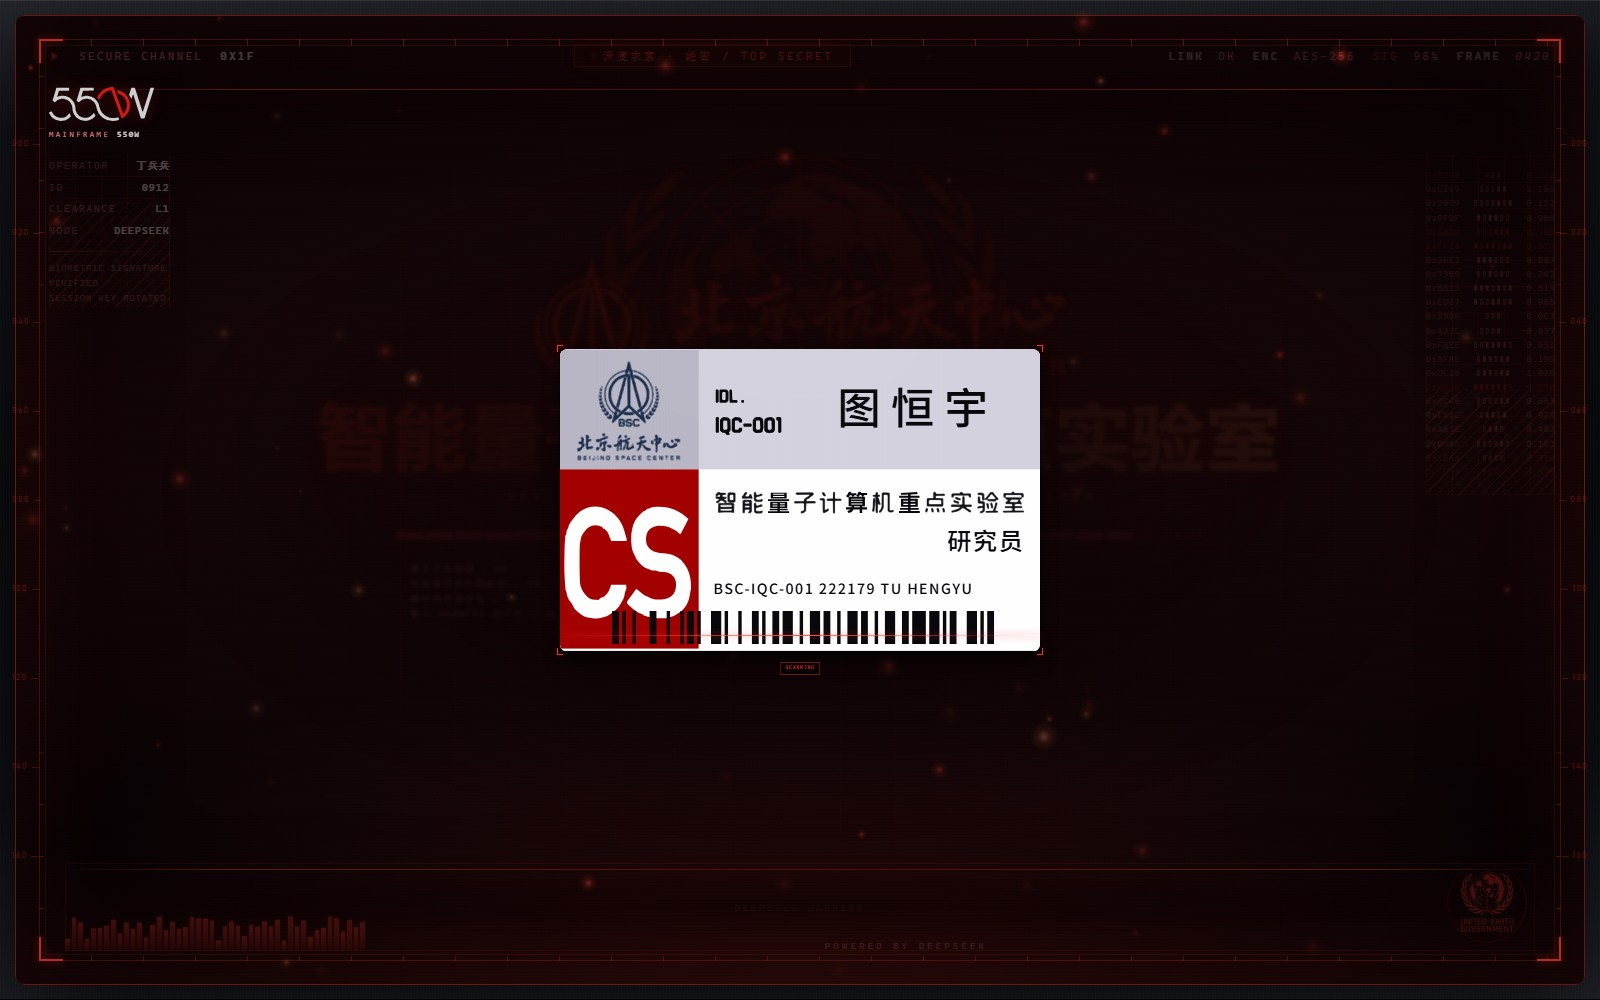
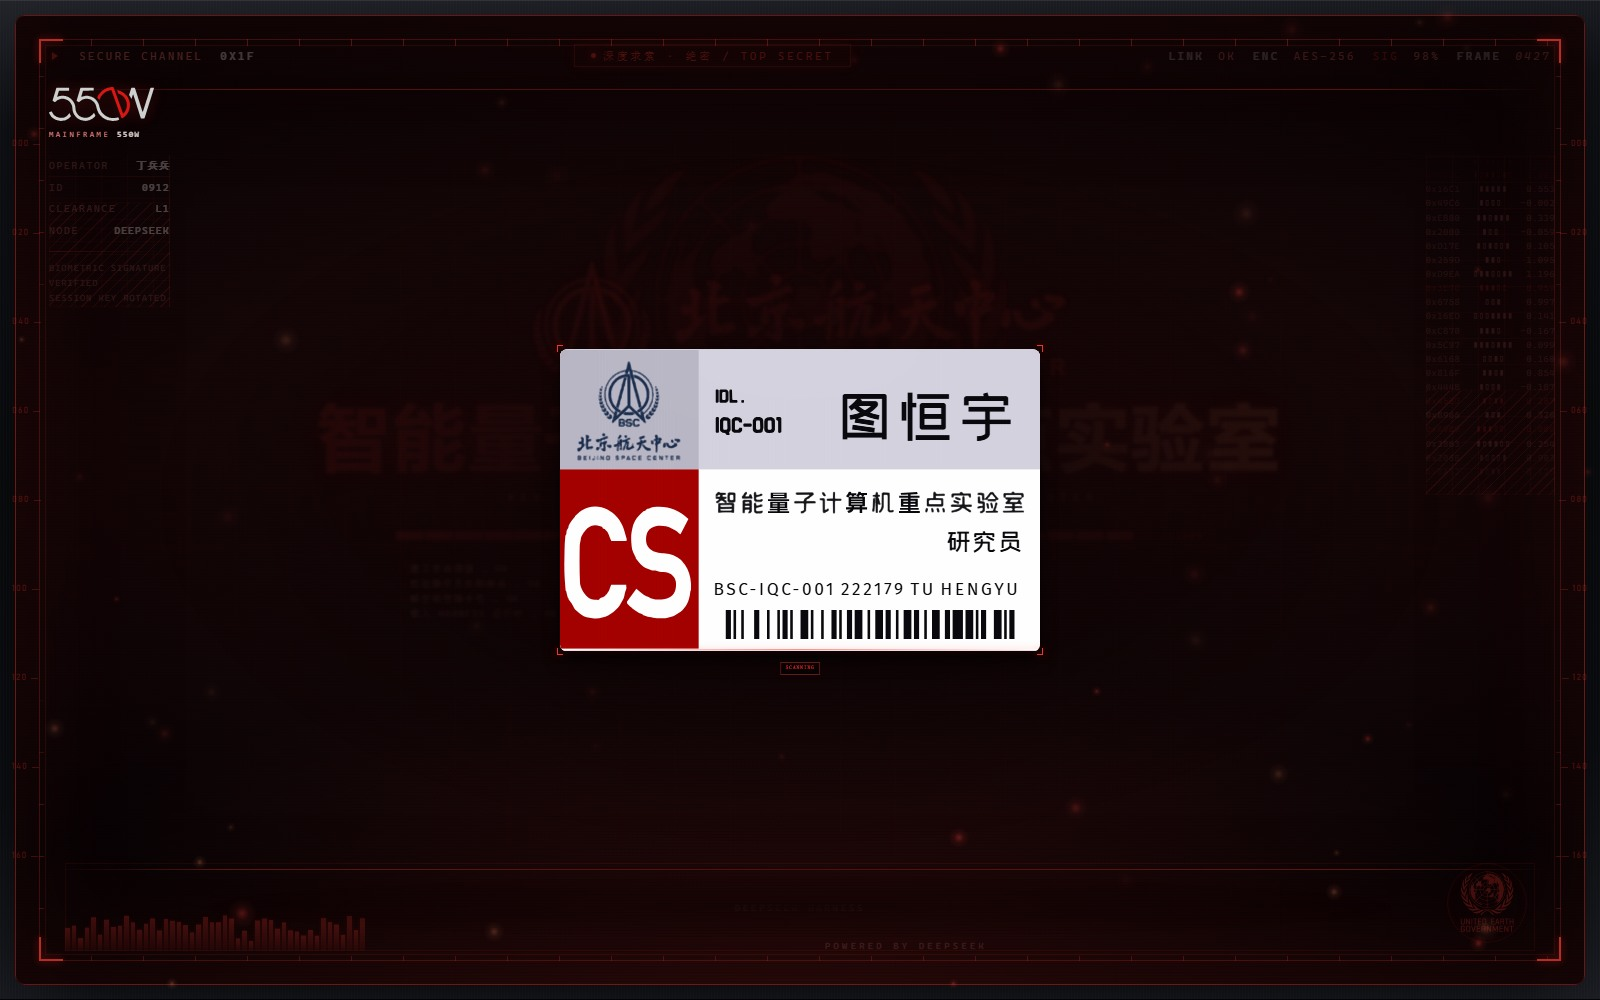
fix(badge): actually load MOSS v2 CSS (name/role use ZiHun ChuangCuHei via data-han; Rajdhani for numbers; Fira for serial; Taobao Maicai for remaining editable latin fields), correct docs (v1.5.4)

diff --git a/lib/assets/badge/badge.css b/lib/assets/badge/badge.css
@@ -1,31 +1,30 @@
 @font-face {
-  font-family:"Staff Reference Name"; /* fui-lint-ignore: R04 Reconstructed glyphs from the supplied printed badge. */
-  src:url("/dsh-command/badge/reference-name.ttf") format("truetype");
+  font-family:"Taobao Maicai"; /* fui-lint-ignore: R04 User-selected type for editable badge fields. */
+  src:url("/dsh-command/badge/fonts/taobao-maicai.woff2") format("woff2");
   font-style:normal; font-weight:400; font-display:swap;
-  unicode-range:U+5146,U+9A6C;
 }
 @font-face {
-  font-family:"Staff Reference Role"; /* fui-lint-ignore: R04 Printed role glyphs from the supplied badge. */
-  src:url("/dsh-command/badge/reference-role.ttf") format("truetype");
-  font-style:normal; font-weight:400; font-display:swap;
-  unicode-range:U+4E3B,U+4EFB,U+5B9E,U+5BA4,U+9A8C;
+  font-family:"ZiHun ChuangCuHei"; /* fui-lint-ignore: R04 Use the chosen official font for Chinese badge labels. */
+  src:url("/dsh-command/badge/fonts/zihun-chuangcuhei.ttf") format("truetype");
+  font-style:normal; font-weight:400; font-display:block;
+  unicode-range:U+3007,U+3400-4DBF,U+4E00-9FFF,U+F900-FAFF,U+20000-323AF;
 }
 @font-face {
-  font-family:"Staff Reference ID"; /* fui-lint-ignore: R04 Printed identifier glyphs from the supplied badge. */
-  src:url("/dsh-command/badge/reference-id.ttf") format("truetype");
+  font-family:"Fira Sans"; /* fui-lint-ignore: R04 User-selected type for the editable badge serial. */
+  src:url("/dsh-command/badge/fonts/fira-sans.ttf") format("truetype");
   font-style:normal; font-weight:400; font-display:swap;
-  unicode-range:U+002D-002E,U+0030-0031,U+0043-0044,U+0049,U+004C,U+0051;
+  unicode-range:U+0000-024F,U+2000-206F;
 }
 @font-face {
-  font-family:"Staff Narrow"; /* fui-lint-ignore: R04 Condensed fallback for editable identifiers. */
-  src:url("/dsh-command/badge/staff-narrow.woff2") format("woff2");
-  font-style:normal; font-weight:400; font-display:swap;
-  unicode-range:U+0020-007E;
+  font-family:"Rajdhani";
+  src:url("/dsh-command/badge/fonts/rajdhani-bold.ttf") format("truetype");
+  font-style:normal; font-weight:700; font-display:swap;
 }
 
 .credential-card {
   --badge-paper: #d3d1de;
-  --badge-id-font: "Staff Reference ID", "Staff Narrow", var(--font-display);
+  --badge-font: "Taobao Maicai", var(--font-cjk), sans-serif;
+  --badge-zh: "ZiHun ChuangCuHei", "Taobao Maicai", var(--font-cjk, sans-serif);
   position: relative;
   box-sizing: border-box;
   width: 100%;
@@ -34,6 +33,7 @@
   overflow: hidden;
   background: var(--badge-paper);
   color: #09080c;
+  font-synthesis: none;
 }
 
 .credential-card__print {
@@ -49,6 +49,7 @@
 }
 
 .credential-card [data-reference] {
+  font-family: var(--font-cjk);
   clip-path: inset(50%);
   pointer-events: none;
 }
@@ -58,7 +59,7 @@
   max-width: 88%;
   background: var(--badge-paper);
   padding-inline: .15em;
-  font: 400 4.35cqw / 1 var(--badge-id-font);
+  font: 400 min(4.35cqw, calc(76cqw / var(--glyph-count))) / 1 var(--badge-font);
 }
 
 .credential-card :is(.credential-card__stripe, .credential-card__identity, .credential-card__name,
@@ -71,28 +72,98 @@
 .credential-card__identity {
   inset: 20.1% auto auto 32.1%;
   max-width: 25%;
-  font: 400 min(4.5cqw, calc(43cqw / var(--glyph-count))) / 1.32 var(--badge-id-font);
+  font: 400 min(4.5cqw, calc(24cqw / var(--glyph-count))) / 1.23 var(--badge-font);
 }
 
 .credential-card__name {
-  inset: 10.8% 2.5% auto 57.8%;
-  font: 500 min(12.5cqw, calc(27cqw / var(--glyph-count))) / 1.15
-    "Staff Reference Name", "STXihei", "DengXian", var(--font-cjk);
-  letter-spacing: .24em;
+  inset: 10% 2.5% auto 57.8%;
+  font: 400 min(14cqw, calc(34cqw / var(--glyph-count))) / 1.22 var(--badge-font);
+  letter-spacing: .12em;
+}
+
+.credential-card__name[data-glyph-count="2"] {
+  letter-spacing: .34em;
+}
+
+.credential-card__name[data-han] {
+  font-family: var(--badge-zh);
+}
+
+.credential-card__name[data-reference-pair] {
+  inset-block-start: calc(10% - 1.3333cqw);
+  inset-inline-start: calc(57.8% - .3333cqw);
+  font-size: 13.1111cqw;
+  letter-spacing: 4cqw;
+}
+
+.credential-card__name[data-reference-pair] > span {
+  display: inline-block;
+  transform: translateY(-.6667cqw);
+}
+
+.credential-card :is(.credential-card__name, .credential-card__identity)[data-wrap] {
+  white-space: normal;
+  overflow-wrap: anywhere;
+}
+
+.credential-card__name[data-wrap] {
+  font-size: min(7.4cqw, calc(63cqw / var(--glyph-count)));
+  letter-spacing: .05em;
+}
+
+.credential-card__identity[data-wrap] {
+  font-size: min(4.5cqw, calc(48cqw / var(--glyph-count)));
+}
+
+.credential-card__identity:not([data-reference]) {
+  font: 700 min(4.8889cqw, calc(42cqw / var(--glyph-count))) / 1.23 "Rajdhani", var(--badge-font);
+  letter-spacing: -.025em;
+  white-space: normal;
+  overflow-wrap: anywhere;
+}
+
+.credential-card__identity[data-wrap]:not([data-reference]) {
+  font-size: min(4.8889cqw, calc(55cqw / var(--glyph-count)));
+}
+
+.credential-card__stripe:not([data-reference]) {
+  padding-block-end: .55cqw;
+}
+
+.credential-card__stripe:not([data-reference]) .credential-card__number {
+  /* The wrapper also counts the fixed IDL. prefix and its space. */
+  font: 700 min(4.5778cqw, calc(70cqw / (var(--glyph-count) - 5))) / 1 "Rajdhani", var(--badge-font);
+  letter-spacing: -.02524em;
 }
 
 .credential-card__role {
   inset: 57.2% 3.2% auto 32.2%;
-  font: 400 min(5cqw, calc(59cqw / var(--glyph-count))) / 1.5
-    "Staff Reference Role", "DengXian", var(--font-cjk);
-  letter-spacing: .075em;
+  font: 400 min(5cqw, calc(59cqw / var(--glyph-count))) / 1.5 var(--badge-font);
+  letter-spacing: .045em;
   text-align: right;
+}
+
+.credential-card__role[data-han] {
+  font-family: var(--badge-zh);
+  font-size: min(4.9778cqw, calc(55cqw / var(--glyph-count)));
+  letter-spacing: .4444cqw;
 }
 
 .credential-card__serial {
   inset: 76.5% 3.2% auto 32%;
-  font: 500 min(3.7cqw, calc(83cqw / var(--glyph-count))) / 1.2 var(--font-cjk, sans-serif);
-  letter-spacing: .10em;
+}
+
+.credential-card__serial:not([data-reference]) {
+  /* Optical settings for a 450px card, kept proportional at other widths. */
+  --serial-size: 17.2;
+  --serial-tracking: 2.6;
+  --serial-word-spacing: -2.4;
+  --serial-width: 291.6;
+  --serial-scale: min(1, calc(279 / (var(--serial-size) * var(--glyph-count))));
+  width: calc(var(--serial-width) / 4.5 * 1cqw);
+  font: 400 calc(var(--serial-size) / 4.5 * var(--serial-scale) * 1cqw) / 1.2 "Fira Sans", var(--badge-font);
+  letter-spacing: calc(var(--serial-tracking) / var(--serial-size) * 1em);
+  word-spacing: calc(var(--serial-word-spacing) / var(--serial-size) * 1em);
 }
 
 .credential-card__barcode {
@@ -102,7 +173,7 @@
   shape-rendering: geometricPrecision;
 }
 
-.credential-card[data-side="back"] .credential-card__barcode {
+.credential-card[data-side="front"] .credential-card__barcode {
   inset: 86.2% auto auto 29.11%;
   width: 70.89%;
   height: 9.6%;
@@ -110,10 +181,15 @@
 
 
 
-/* ── 接进启动屏工牌舞台（移植版） ──────────────────────────────────────── */
+/* ── 接进启动屏工牌舞台 + 兜底字体（思源黑体随包，OFL） ─────────────────── */
+@font-face {
+  font-family: "Badge Full CJK";
+  src: url("/dsh-command/badge/source-han-sans.woff2") format("woff2");
+  font-weight: 100 900;
+  font-display: swap;
+}
 .dsc-badge .credential-card {
-  --font-display: "Bahnschrift", "DengXian", sans-serif;
-  --font-cjk: "YouSheBiaoTiHei", "Microsoft YaHei", "PingFang SC", sans-serif;
+  --font-cjk: "Badge Full CJK", "Microsoft YaHei", "PingFang SC", sans-serif;
   position: absolute;
   inset: 0;
   width: 100%;
@@ -122,36 +198,3 @@
 .dsc-badge__card { position: absolute; inset: 0; }
 .dsc-badge__face.is-card .dsc-badge__fallback { display: none; }
 .dsc-badge__face.is-card .dsc-badge__card { display: block; }
-
-/* ── 任意姓名/编号也保持"印刷感"的全量字体 ─────────────────────────────── */
-@font-face {
-  font-family: "Badge Full CJK";
-  src: url("/dsh-command/badge/source-han-sans.woff2") format("woff2");
-  font-weight: 100 900;
-  font-display: swap;
-}
-@font-face {
-  font-family: "Badge Name Display";
-  src: url("/dsh-command/font/YouSheBiaoTiHei.ttf") format("truetype");
-  font-display: swap;
-}
-@font-face {
-  font-family: "Badge ID Narrow";
-  src: url("/dsh-command/font/Anton-Regular.ttf") format("truetype");
-  font-display: swap;
-}
-.dsc-badge .credential-card {
-  --badge-id-font: "Staff Reference ID", "Badge ID Narrow", "Staff Narrow", sans-serif;
-}
-.dsc-badge .credential-card__stripe { font-family: var(--badge-id-font); }
-.dsc-badge .credential-card__identity { font-family: var(--badge-id-font); }
-.dsc-badge .credential-card__name {
-  font-family: "Staff Reference Name", "Badge Name Display", "Badge Full CJK", "Microsoft YaHei", sans-serif;
-}
-.dsc-badge .credential-card__role {
-  font-family: "Staff Reference Role", "Badge Full CJK", "Microsoft YaHei", sans-serif;
-  font-weight: 500;
-}
-.dsc-badge .credential-card__serial {
-  font-family: "Badge Full CJK", "Microsoft YaHei", sans-serif;
-}

diff --git a/README.md b/README.md
@@ -426,8 +426,10 @@ IQC AUTH … OK / 550W ONLINE`，逐行出现）和 550W 下方**连接进度条
 启动屏工牌移植的是 MOSS 更新后的第二版（v2）：
 
 - **印刷层**：`lib/assets/badge/print.svg`（MOSS 的 staff-badge-print.svg，含 front / back / reference 图层）；
-- **真实字体**：可编辑字段不再用"逐字描的参考子集"，改为真实字体——
-  淘宝买菜体（姓名/编号等可编辑文字）、字魂创粗黑（中文标签）、Fira Sans（流水号）、Rajdhani Bold（编号/数字）；
+- **真实字体**：可编辑字段不再用"逐字描的参考子集"，改为真实字体，按 v2 的规则分工——
+  中文姓名/角色 → **字魂创粗黑**（`[data-han]` 时切到 `--badge-zh`）、
+  编号/数字 → **Rajdhani Bold**、流水号 → **Fira Sans**、
+  其余可编辑拉丁字段（以及无中文的姓名）→ **淘宝买菜体**；
   这些字体**不随插件分发**，由 Host 从本机 MOSS 目录读取（与程序化渲染器同一套 `DSC_MOSS_ASSETS`），
   缺失时回退到随包的思源黑体（OFL）；MOSS v2 里「马兆」还会做参考对（马 + 升起的兆）的精确排布；
 - **条码**：Code128，按工牌编号实时生成；
